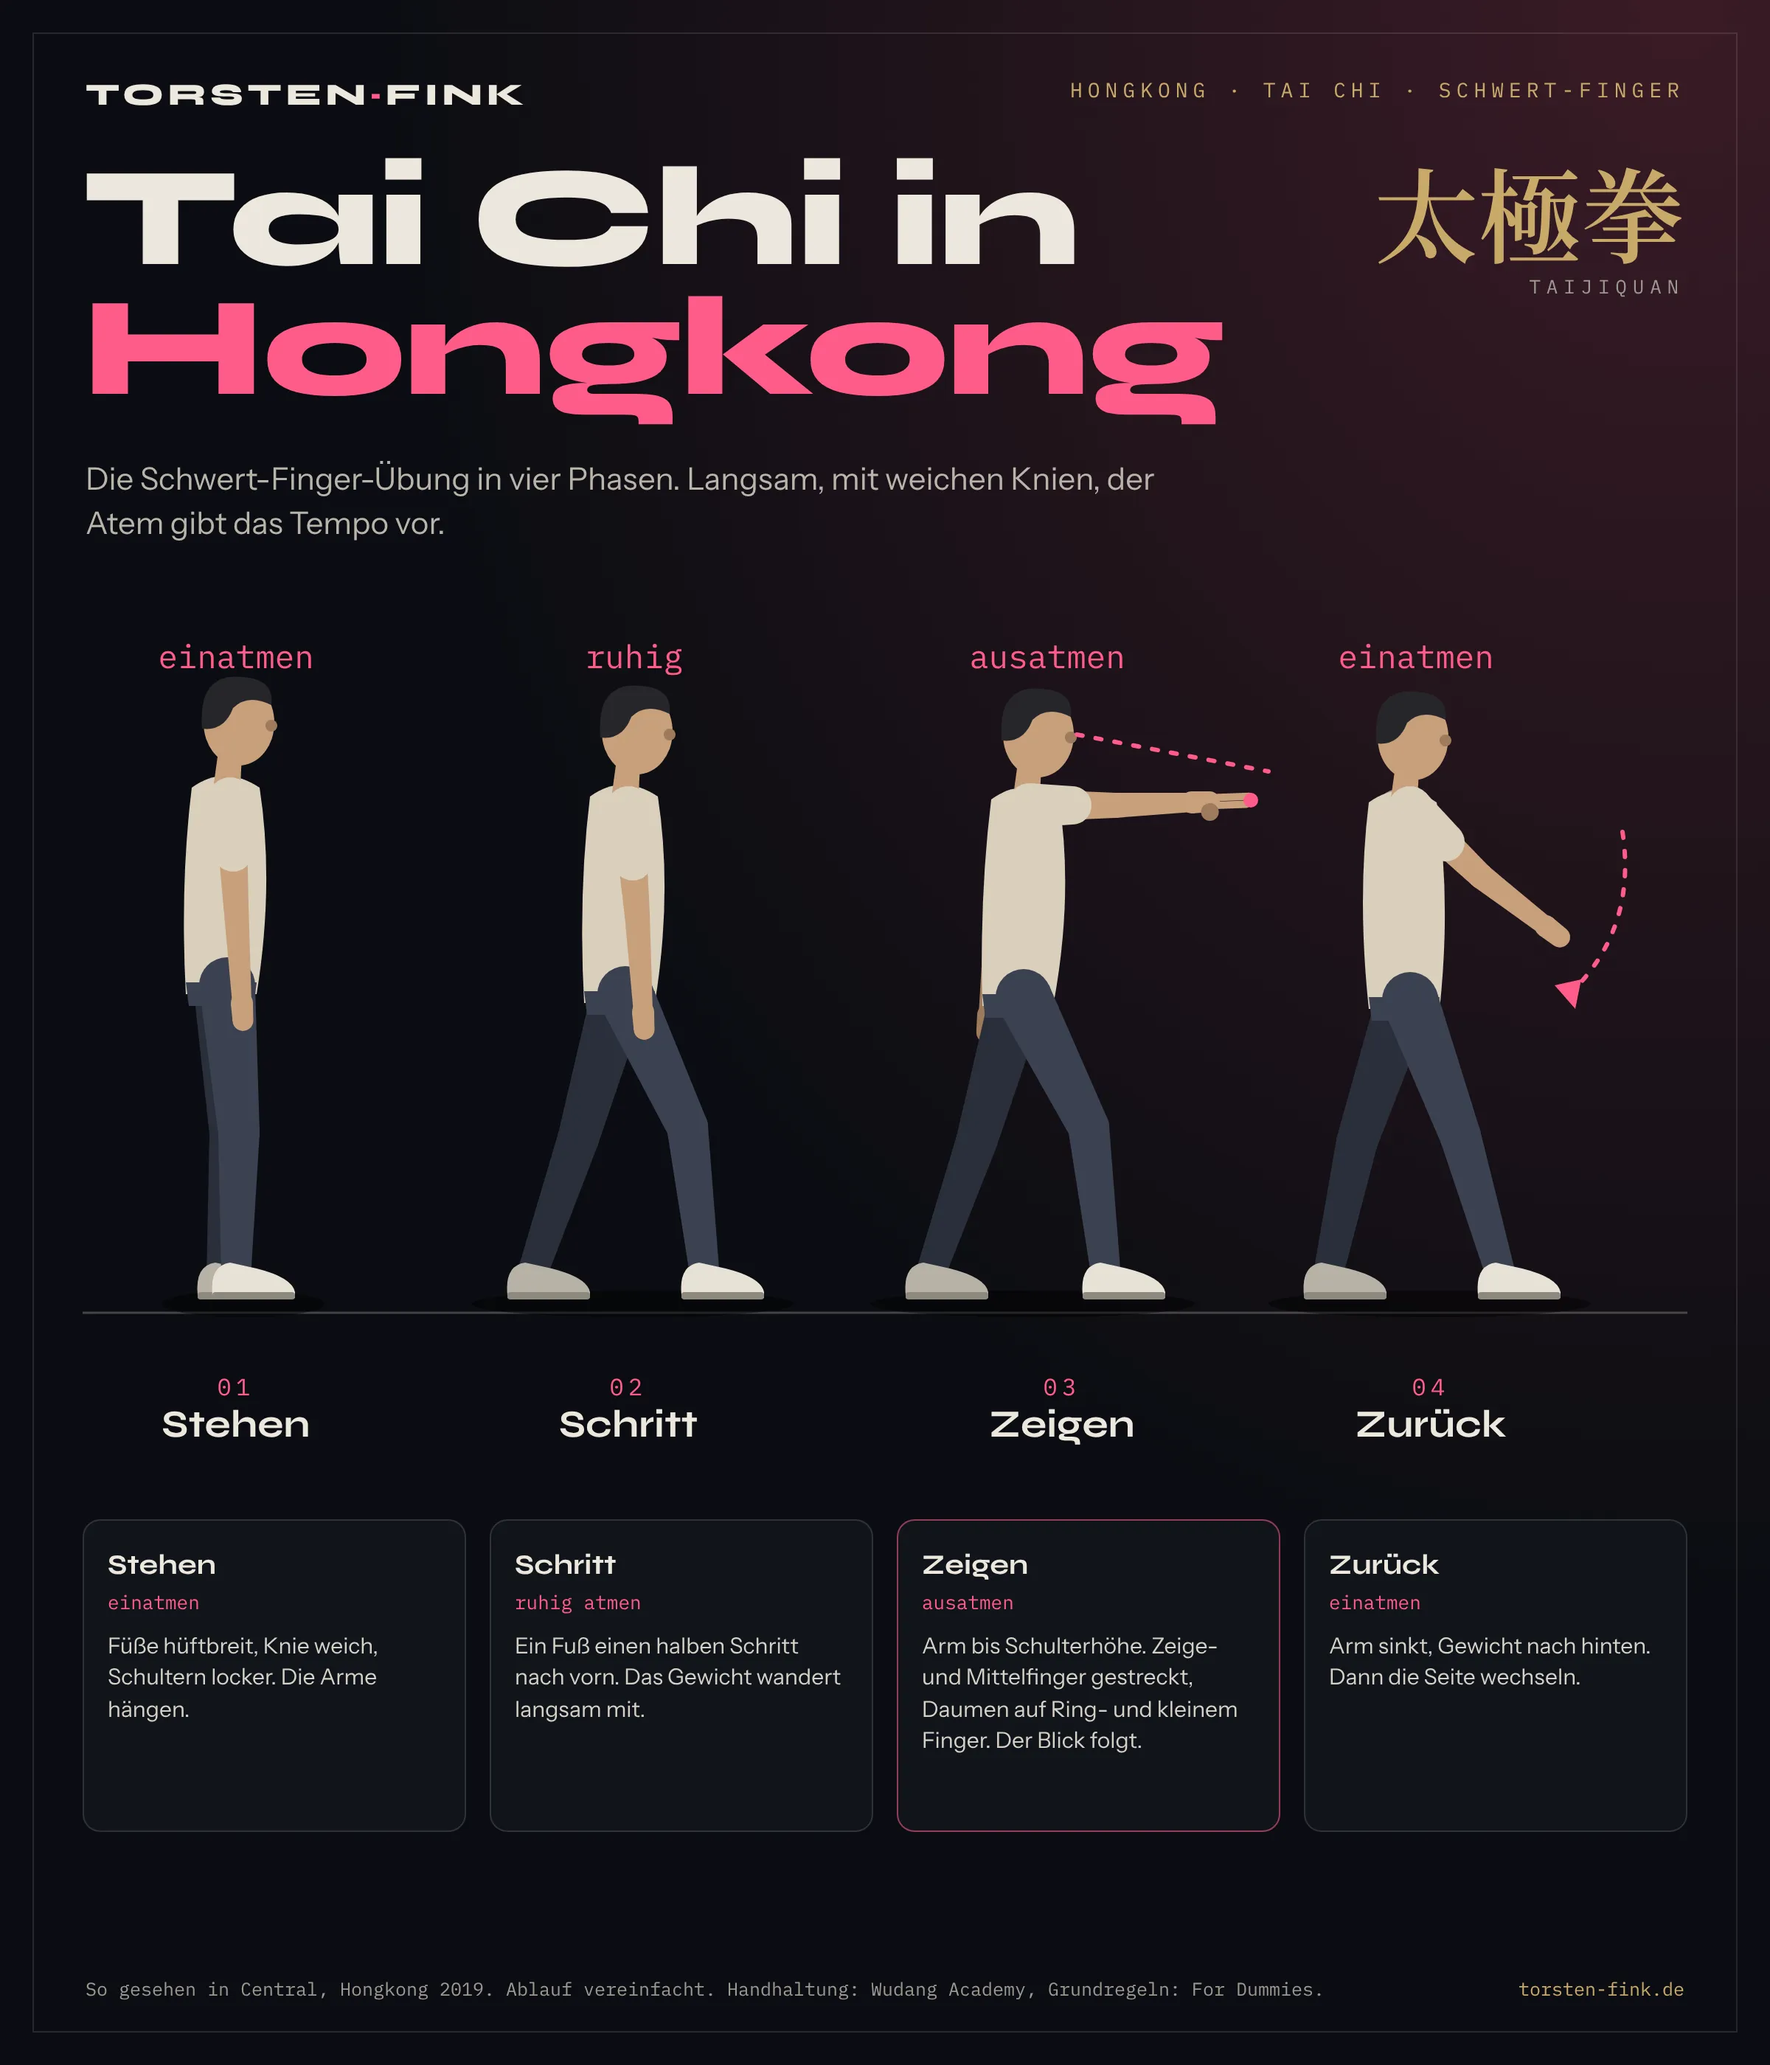
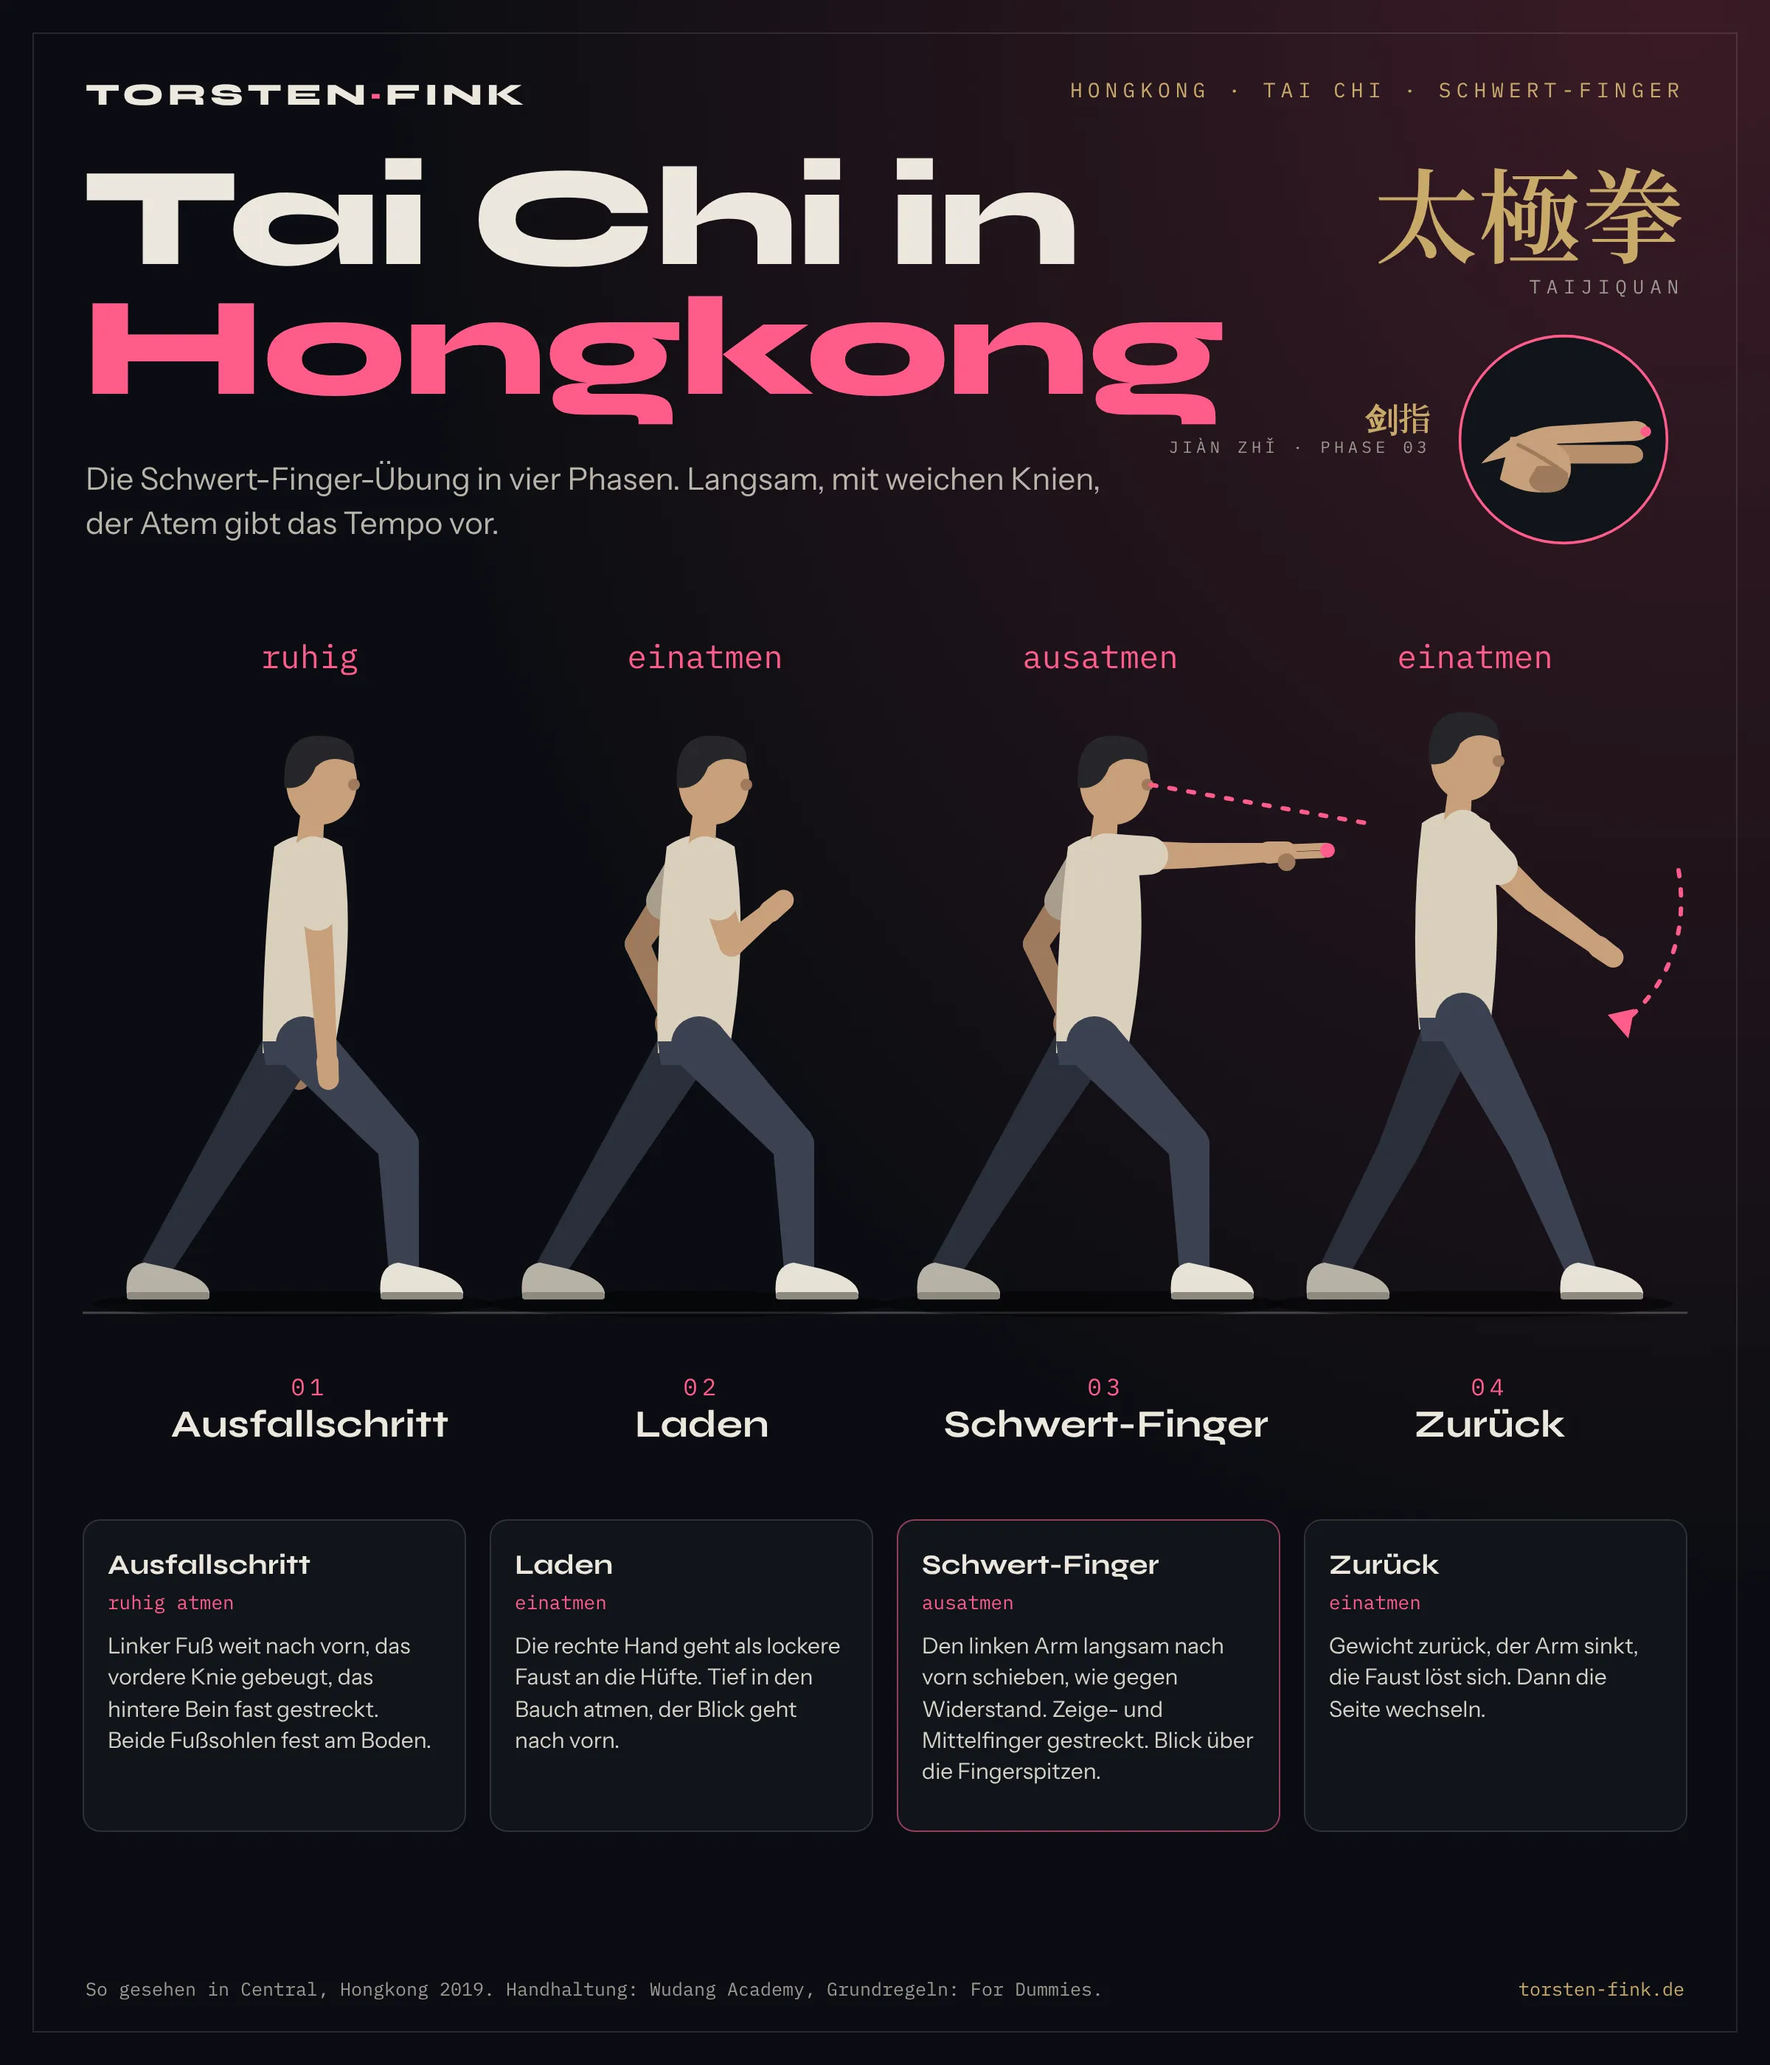
Tai Chi: Ablauf mit Ausfallschritt, Faust an der Hüfte und Schwert-Finger, Detailansicht 剑指
Claude-Session: https://claude.ai/code/session_01Fba3anoUoR8ZEjRTz6aG6g

diff --git a/guides/hongkong-tai-chi.html b/guides/hongkong-tai-chi.html
@@ -40,7 +40,7 @@
       "inLanguage":"de",
       "datePublished":"2026-10-23T00:00:00+02:00",
       "dateModified":"2026-10-23T00:00:00+02:00",
-      "image":{"@type":"ImageObject","contentUrl":"https://torsten-fink.de/assets/images/guides/hongkong-tai-chi-grafik.jpg","url":"https://torsten-fink.de/assets/images/guides/hongkong-tai-chi-grafik.jpg","width":1200,"height":1400,"caption":"Tai-Chi-Übung mit Schwert-Finger in vier Phasen: Stehen, Schritt, Zeigen, Zurück","creator":{"@type":"Person","@id":"https://torsten-fink.de/#person","name":"Torsten Fink"},"creditText":"Torsten Fink","copyrightNotice":"© Torsten Fink","license":"https://torsten-fink.de/impressum.html#urheberrecht","acquireLicensePage":"https://torsten-fink.de/impressum.html#urheberrecht"},
+      "image":{"@type":"ImageObject","contentUrl":"https://torsten-fink.de/assets/images/guides/hongkong-tai-chi-grafik.jpg","url":"https://torsten-fink.de/assets/images/guides/hongkong-tai-chi-grafik.jpg","width":1200,"height":1400,"caption":"Tai-Chi-Übung mit Schwert-Finger in vier Phasen: Ausfallschritt, Laden, Schwert-Finger, Zurück","creator":{"@type":"Person","@id":"https://torsten-fink.de/#person","name":"Torsten Fink"},"creditText":"Torsten Fink","copyrightNotice":"© Torsten Fink","license":"https://torsten-fink.de/impressum.html#urheberrecht","acquireLicensePage":"https://torsten-fink.de/impressum.html#urheberrecht"},
       "author":{"@type":"Person","@id":"https://torsten-fink.de/#person","name":"Torsten Fink","url":"https://torsten-fink.de/","sameAs":["https://www.instagram.com/torstenfinkbayern/","https://x.com/finktorsten","https://www.linkedin.com/in/torsten-fink-20220860"]},
       "mainEntityOfPage":"https://torsten-fink.de/guides/hongkong-tai-chi.html",
       "about":[{"@type":"Thing","name":"Taijiquan"},{"@type":"City","name":"Hongkong"}],
@@ -147,23 +147,23 @@
   <div class="memo"><span class="lbl">Meine Erinnerung</span><p>Morgens zwischen den Hochhäusern, überall Leute in Zeitlupe. Es war sehr schön anzusehen.</p></div>
 
   <h2>Die Schwert-Finger-Übung</h2>
-  <p>Die beiden Frauen in Central haben mit dem Schwert-Finger geübt, auf Chinesisch 剑指, jiàn zhǐ. Zeige- und Mittelfinger sind gestreckt und liegen eng zusammen, der Daumen liegt auf Ring- und kleinem Finger. So habe ich es vor Ort gesehen. Den Ablauf unten habe ich vereinfacht, dazu kommen die Grundregeln, die in Anleitungen immer wieder auftauchen: Knie nie durchgedrückt, Schultern locker, langsam in den Bauch atmen. Beim Strecken ausatmen, beim Zurücknehmen einatmen.</p>
+  <p>Die beiden Frauen in Central haben mit dem Schwert-Finger geübt, auf Chinesisch 剑指, jiàn zhǐ. Zeige- und Mittelfinger sind gestreckt und liegen eng zusammen, der Daumen liegt auf Ring- und kleinem Finger. So habe ich es vor Ort gesehen. Dazu kommen die Grundregeln, die in Anleitungen immer wieder auftauchen: Knie nie durchgedrückt, Schultern locker, langsam in den Bauch atmen. Beim Strecken ausatmen, beim Zurücknehmen einatmen.</p>
 
   <figure>
     <picture>
       <source type="image/webp" srcset="../assets/images/guides/hongkong-tai-chi-grafik.webp 1200w, ../assets/images/guides/hongkong-tai-chi-grafik-2x.webp 2400w" sizes="(max-width: 760px) 100vw, 680px">
-      <img src="../assets/images/guides/hongkong-tai-chi-grafik.jpg" srcset="../assets/images/guides/hongkong-tai-chi-grafik.jpg 1200w, ../assets/images/guides/hongkong-tai-chi-grafik-2x.jpg 2400w" sizes="(max-width: 760px) 100vw, 680px" width="1200" height="1400" alt="Grafik: vier gezeichnete Figuren in Seitenansicht. 01 Stehen mit hängenden Armen, 02 ein halber Schritt nach vorn, 03 ein Arm auf Schulterhöhe nach vorn, Zeige- und Mittelfinger gestreckt, der Blick folgt, 04 der Arm sinkt, das Gewicht geht zurück. Darunter je eine Karte mit Atem und Hinweis." loading="lazy">
+      <img src="../assets/images/guides/hongkong-tai-chi-grafik.jpg" srcset="../assets/images/guides/hongkong-tai-chi-grafik.jpg 1200w, ../assets/images/guides/hongkong-tai-chi-grafik-2x.jpg 2400w" sizes="(max-width: 760px) 100vw, 680px" width="1200" height="1400" alt="Grafik: vier gezeichnete Figuren in Seitenansicht. 01 tiefer Ausfallschritt, 02 die rechte Hand als Faust an der Hüfte, 03 der linke Arm schiebt nach vorn, Zeige- und Mittelfinger gestreckt, der Blick folgt, 04 das Gewicht geht zurück, der Arm sinkt. Daneben eine Detailansicht der Hand, darunter je eine Karte mit Atem und Hinweis." loading="lazy">
     </picture>
-    <figcaption>Die Schwert-Finger-Übung in vier Phasen, gezeichnet nach dem Foto aus Central</figcaption>
+    <figcaption>Die Schwert-Finger-Übung in vier Phasen, so gesehen in Central 2019</figcaption>
   </figure>
 
   <ol class="steps">
-    <li><b>Stehen<span class="atem">einatmen</span></b>Füße etwa hüftbreit, die Knie leicht gebeugt. Schultern locker, die Arme hängen. In den Bauch atmen.</li>
-    <li><b>Schritt<span class="atem">ruhig atmen</span></b>Ein Fuß geht einen halben Schritt nach vorn. Das Gewicht wandert langsam mit, bis das vordere Bein den größeren Teil trägt. Beide Fußsohlen bleiben am Boden.</li>
-    <li><b>Zeigen<span class="atem">ausatmen</span></b>Ein Arm hebt sich langsam nach vorn bis auf Schulterhöhe. Die Hand formt den Schwert-Finger: Zeige- und Mittelfinger gestreckt und zusammen, Ring- und kleiner Finger eingerollt, der Daumen liegt darauf. Der Blick geht über die Fingerspitzen hinweg auf einen festen Punkt. Der andere Arm hängt.</li>
-    <li><b>Zurück<span class="atem">einatmen</span></b>Der Arm sinkt, das Gewicht wandert zurück aufs hintere Bein. Fuß zurückstellen, Seite wechseln. Ein paar Runden, so langsam, wie es geht.</li>
+    <li><b>Ausfallschritt<span class="atem">ruhig atmen</span></b>Mit dem linken Fuß einen weiten Schritt nach vorn. Das vordere Knie ist gebeugt, das hintere Bein fast gestreckt. Beide Fußsohlen stehen fest am Boden, das Gewicht liegt spürbar vorn. Nur so tief, wie es bequem bleibt.</li>
+    <li><b>Laden<span class="atem">einatmen</span></b>Die rechte Hand geht als lockere Faust zurück an die Hüfte. Tief in den Bauch einatmen, der Blick geht schon nach vorn.</li>
+    <li><b>Schwert-Finger<span class="atem">ausatmen</span></b>Den linken Arm langsam nach vorn schieben, kontrolliert, als würde man gegen einen Widerstand drücken. Die Hand formt den Schwert-Finger: Zeige- und Mittelfinger gestreckt und zusammen, Ring- und kleiner Finger eingerollt, der Daumen liegt darauf. Der Blick geht über die Fingerspitzen hinweg auf einen festen Punkt in der Ferne.</li>
+    <li><b>Zurück<span class="atem">einatmen</span></b>Das Gewicht wandert zurück aufs hintere Bein, der Arm sinkt, die Faust löst sich. Fuß zurückstellen, Seite wechseln. Ein paar Runden, so langsam, wie es geht.</li>
   </ol>
-    <p class="note">Wer Probleme mit Knien oder Rücken hat, fragt vorher die Ärztin oder den Arzt. Richtig lernt man Tai Chi bei jemandem, der es unterrichtet. Eine Website ersetzt das nicht, diese auch nicht.</p>
+    <p class="note">Der Ausfallschritt geht auf die Knie. Wer Probleme mit Knien oder Rücken hat, fragt vorher die Ärztin oder den Arzt. Richtig lernt man Tai Chi bei jemandem, der es unterrichtet. Eine Website ersetzt das nicht, diese auch nicht.</p>
 
   <p class="note">Mehr Hongkong mit Geschichten statt Regeln: <a class="inline-link" href="../stories/hongkong.html">die Hongkong-Story</a>. Noch mehr Reise-Wissen aus Asien: <a class="inline-link" href="japan-verbeugung-ojigi.html">Verbeugen in Japan</a>.</p>
 
